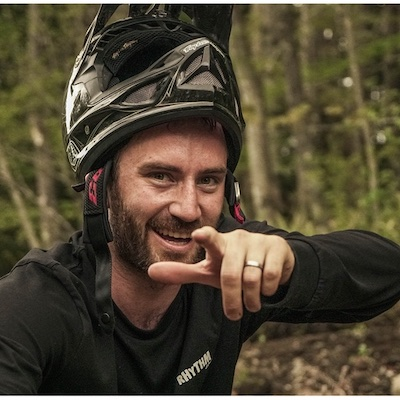
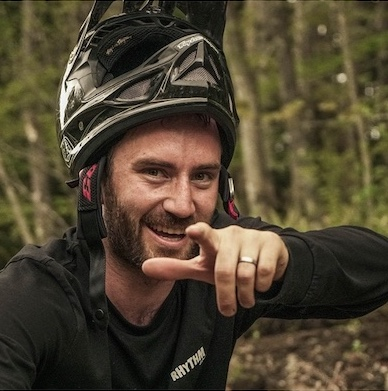
Add rusutsu dig n ride event

diff --git a/_layouts/event.html b/_layouts/event.html
@@ -181,6 +181,7 @@ baseCss: view-article
               {% endif %}
               <br />
             {% endfor %}
+          {% if page.time %} {{ page.time }}{% endif %}
           </p>
         </div>
 
@@ -207,6 +208,17 @@ baseCss: view-article
               {{ page.price }}</p>
             {% endif %}
         </div>
+
+        {% if page.host %}
+        <div class="list-group">
+          <h4 class="list-group-item-heading">{% if page.lang == "en" %}Host{% else %}イベント主催者{% endif %}</h4>
+          <p class="list-group-item-text partners">
+            <a href="{{- page.host.url -}}" target="_blank">
+              <img src="/assets/images/company{{- page.host.img -}}" alt="{{- page.host.name -}}">
+            </a>
+          </p>
+        </div>
+        {% endif %}
 
         {% if page.partners %}
         <div class="list-group">

diff --git a/ja/_posts/2024-04-23-rusutsu-dig-ride.md b/ja/_posts/2024-04-23-rusutsu-dig-ride.md
@@ -1,0 +1,58 @@
+---
+layout: event
+categories: events
+title: ルスツ掘って乗るイベント
+description: 羊蹄MTBクラブに参加して、ルスツフロートレイルでの今シーズン初のコースメンテナンスとライディングセッションにご協力ください！今年は例年より暖かい春のおかげで早くも始動できるので、素晴らしいライディングシーズンの準備のためにトレイルの整備を手伝いに来てください。
+startDate: 2024-05-12 09:00:00 +0900
+days: 1
+time: 9:00am - 15:00pm
+location: ルスツふるさと公園
+address: 127-4 Rusutsu, Abuta District, Hokkaido 048-1731
+price: 0
+host:
+  name: 羊蹄MTBクラブ
+  img: /yotei-mtb-club.jpg
+  url: https://www.facebook.com/profile.php?id=100070237548701
+
+img: /assets/images/events/2024/rusutsu-dig-ride/header.jpg
+thumbnail: /assets/images/events/2024/rusutsu-dig-ride/thumb.jpg
+og:
+  image: /assets/images/events/2024/rusutsu-dig-ride/header.jpg
+parking: false
+about: false
+---
+<span class="ja">羊蹄MTBクラブに<wbr>参加して、<wbr>ルスツフロートレイルでの<wbr>今シーズン初の<wbr>コースメンテナンスと<wbr>ライディングセッションに<wbr>ご協力ください！<wbr>今年は<wbr>例年より<wbr>暖かい春の<wbr>おかげで<wbr>早くも<wbr>始動できるので、<wbr>素晴らしい<wbr>ライディングシーズンの<wbr>準備の<wbr>ために<wbr>トレイルの<wbr>整備を<wbr>手伝いに<wbr>来てください。</span>
+
+<div class="TrailforksWidgetTrail" data-w="100%" data-h="350px" data-trailid="450955" data-activitytype="1" data-map="1" data-basemap="trailforks" data-elevation="1" data-photos="0" data-title="1" data-info="1" data-trail_opacity="25" data-v="2" data-basicmap="1"></div>
+
+### イベント詳細
+
+<span class="ja">トレイルから<wbr>雪が<wbr>すでに<wbr>なくなっており、<wbr>掘り起こす<wbr>準備が<wbr>できています！<wbr>私たちは<wbr>トレイルを<wbr>完璧な<wbr>状態に<wbr>する<wbr>ための<wbr>メンテナンスに<wbr>焦点を<wbr>当てます。<wbr>トレイルの<wbr>整備が<wbr>終わった<wbr>後は、<wbr>ライディングの<wbr>時間で<wbr>お祝いしましょう。<wbr>トレイルに<wbr>恩返しを<wbr>して、<wbr>その<wbr>成果を<wbr>楽しむ<wbr>絶好の<wbr>機会です。</span>
+
+### 持ち物
+
+- <span class="ja">メンテナンスツール<wbr>（シャベル推奨；クラブには<wbr>限りが<wbr>あるので、<wbr>可能な<wbr>限り<wbr>ご持参ください）</span>
+- <span class="ja">メンテナンス後の<wbr>ライディング用に<wbr>自転車と<wbr>ヘルメット</span>
+
+![](/assets/images/events/2024/rusutsu-dig-ride/dig.jpg)
+
+### 天候について
+
+<span class="ja">小雨の<wbr>場合も<wbr>イベントは<wbr>実施されますので、<wbr>その<wbr>点を<wbr>考慮して<wbr>服装を<wbr>ご準備ください。</span>
+
+### 注意
+
+<span class="ja">時間は<wbr>柔軟に<wbr>対応しますので、<wbr>遅れて<wbr>参加したり<wbr>早めに<wbr>帰ることも<wbr>可能です。<wbr>この<wbr>イベントは<wbr>ゴールデンウィーク外で<wbr>行われる<wbr>ため、<wbr>参加できるかどうか<wbr>心配されている<wbr>方も<wbr>ご安心ください。</span>
+
+<span class="ja">掘って、<wbr>乗って、<wbr>自転車愛好家の<wbr>仲間たちとの<wbr>交流を<wbr>楽しみましょう。<wbr>今シーズン初の<wbr>ライドを<wbr>思い出に<wbr>残る<wbr>ものにしましょう！</span>
+
+<div style="text-align:center; margin:50px 0;">
+  <a class="btn btn-primary" href="https://www.facebook.com/events/757779523146644" target="_blank">イベント詳細</a>
+</div>
+
+<script type="application/javascript" src="https://es.pinkbike.org/326/sprt/j/trailforks/iframeResizer.min.js"></script>
+<script type="text/javascript">
+var script = document.createElement("script"); script.setAttribute("src", "https://es.pinkbike.org/ttl-86400/sprt/j/trailforks/widget.js"); document.getElementsByTagName("head")[0].appendChild(script); var widgetCheck = false;
+</script>
+
+

diff --git a/_posts/2024-04-23-rusutsu-dig-ride.md b/_posts/2024-04-23-rusutsu-dig-ride.md
@@ -1,0 +1,57 @@
+---
+layout: event
+categories: events
+title: Rusutsu Dig & Ride Event
+description: Join the Yotei MTB Club for their first course maintenance and riding session of the season at the Rusutsu Flow Trail! This year, we're kicking things off early thanks to an unusually warm spring, so come help us prep the trail for a fantastic riding season.
+startDate: 2024-05-12 09:00:00 +0900
+days: 1
+time: 9:00am - 15:00pm
+location: Rusutsu Furusato Park
+address: 127-4 Rusutsu, Abuta District, Hokkaido 048-1731
+price: 0
+host:
+  name: Yotei MTB Club
+  img: /yotei-mtb-club.jpg
+  url: https://www.facebook.com/profile.php?id=100070237548701
+
+img: /assets/images/events/2024/rusutsu-dig-ride/header.jpg
+thumbnail: /assets/images/events/2024/rusutsu-dig-ride/thumb.jpg
+og:
+  image: /assets/images/events/2024/rusutsu-dig-ride/header.jpg
+parking: false
+about: false
+---
+Join the Yotei MTB Club for their first course maintenance and riding session of the season at the Rusutsu Flow Trail! This year, we're kicking things off early thanks to an unusually warm spring, so come help us prep the trail for a fantastic riding season.
+
+<div class="TrailforksWidgetTrail" data-w="100%" data-h="350px" data-trailid="450955" data-activitytype="1" data-map="1" data-basemap="trailforks" data-elevation="1" data-photos="0" data-title="1" data-info="1" data-trail_opacity="25" data-v="2" data-basicmap="1"></div>
+
+### Event details
+
+With the snow already cleared from the trails, we're ready to dig in! We will focus on maintaining the trail to ensure it's in perfect condition for riding. After we've tidied up the trail, we’ll celebrate with some riding time. It's a great opportunity to give back to the trail and then enjoy the fruit of our labor.
+
+### What to Bring
+
+- Maintenance tools (shovels preferred; the club has a limited number of spares, so bring your own if possible)
+- Your bike and helmet for riding after maintenance
+
+![](/assets/images/events/2024/rusutsu-dig-ride/dig.jpg)
+
+### Weather Consideration
+
+The event will proceed even with light rain, so dress accordingly.
+
+### Note
+The timing is loose; feel free to join later or leave earlier as needed. This event falls outside of Golden Week, a consideration for those concerned about availability.
+
+Come dig, ride, and enjoy the camaraderie of fellow biking enthusiasts. Let’s make this season's first ride one to remember!
+
+<div style="text-align:center; margin:50px 0;">
+  <a class="btn btn-primary" href="https://www.facebook.com/events/757779523146644" target="_blank">Event Details</a>
+</div>
+
+<script type="application/javascript" src="https://es.pinkbike.org/326/sprt/j/trailforks/iframeResizer.min.js"></script>
+<script type="text/javascript">
+var script = document.createElement("script"); script.setAttribute("src", "https://es.pinkbike.org/ttl-86400/sprt/j/trailforks/widget.js"); document.getElementsByTagName("head")[0].appendChild(script); var widgetCheck = false;
+</script>
+
+
